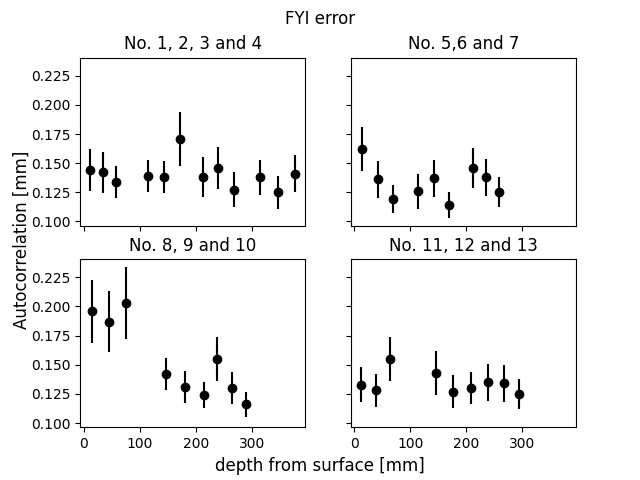
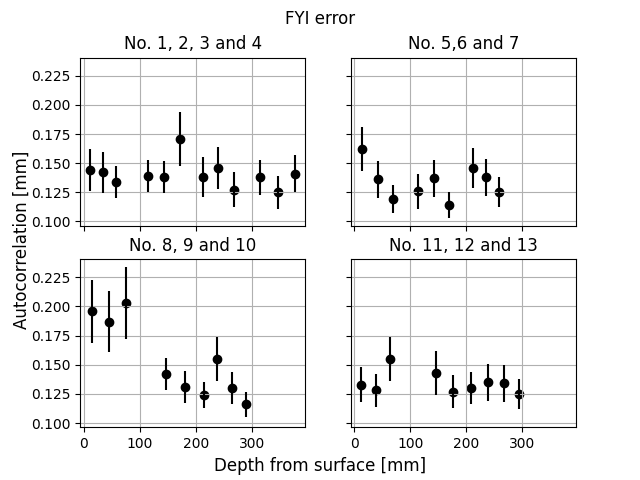
updastes

diff --git a/nonTranposed.py b/nonTranposed.py
@@ -106,7 +106,12 @@ plt.close()
 fig, ((ax1, ax2), (ax3, ax4)) = plt.subplots(2, 2, sharey = True, sharex=True)
 fig.suptitle('FYI error')
 fig.supylabel('Autocorrelation [mm]')
-fig.supxlabel('depth from surface [mm]')
+fig.supxlabel('Depth from surface [mm]')
+
+ax1.grid()
+ax2.grid()
+ax3.grid()
+ax4.grid()
 
 RMSE_exp_all = np.array([])
 RMSE_gauss_all = np.array([])
